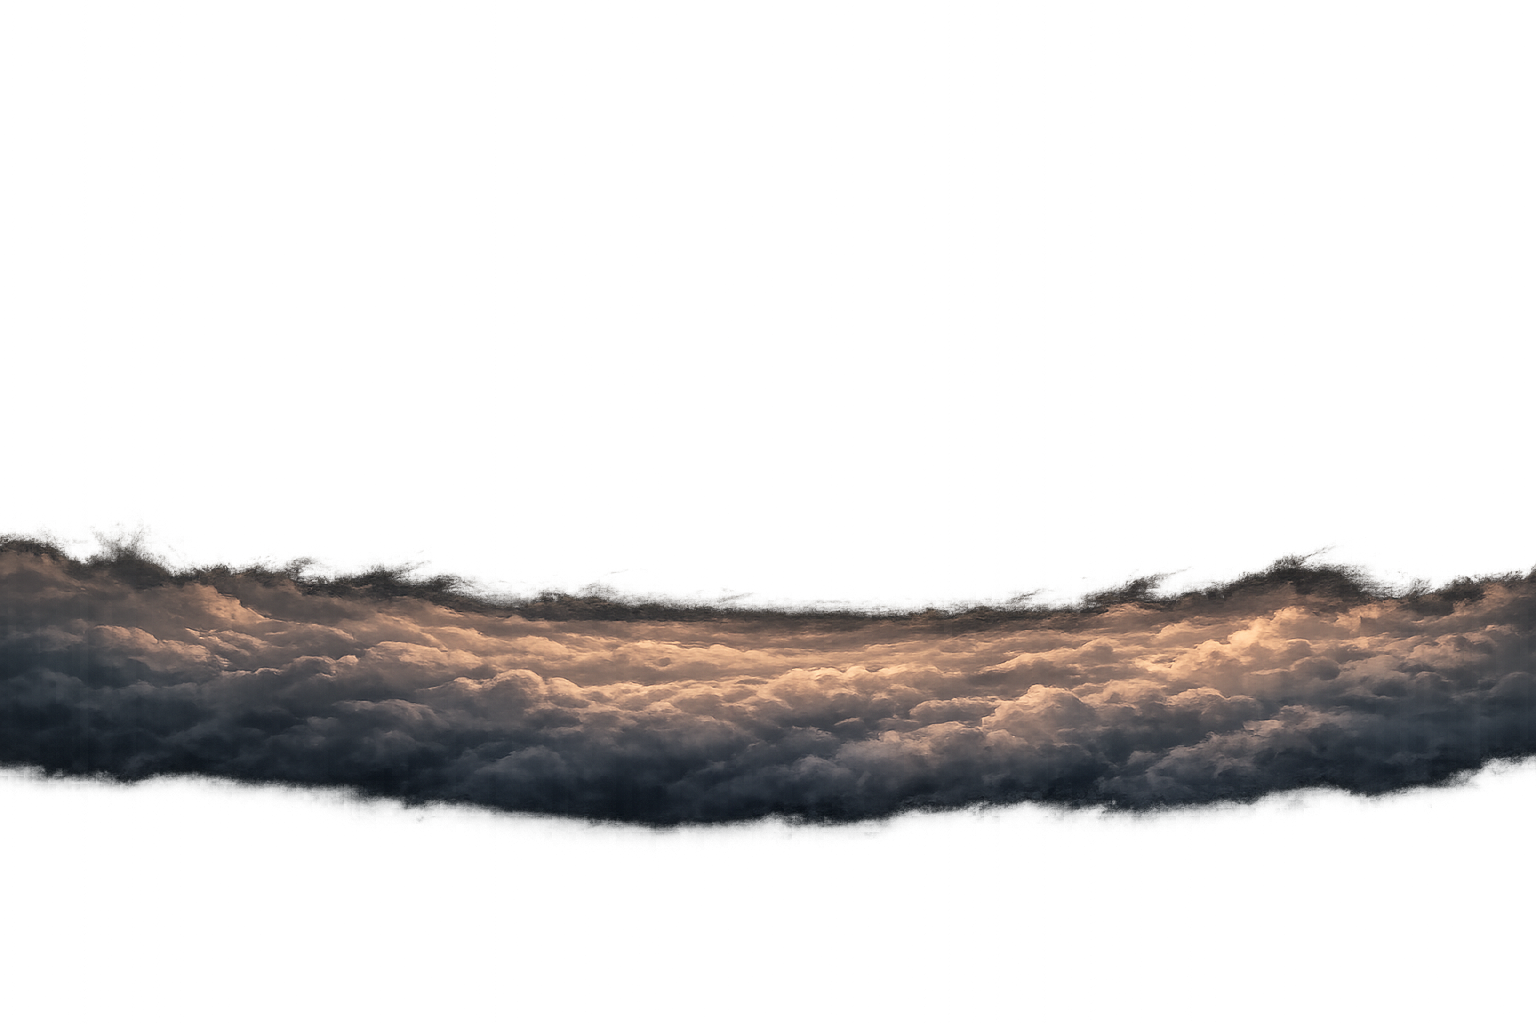
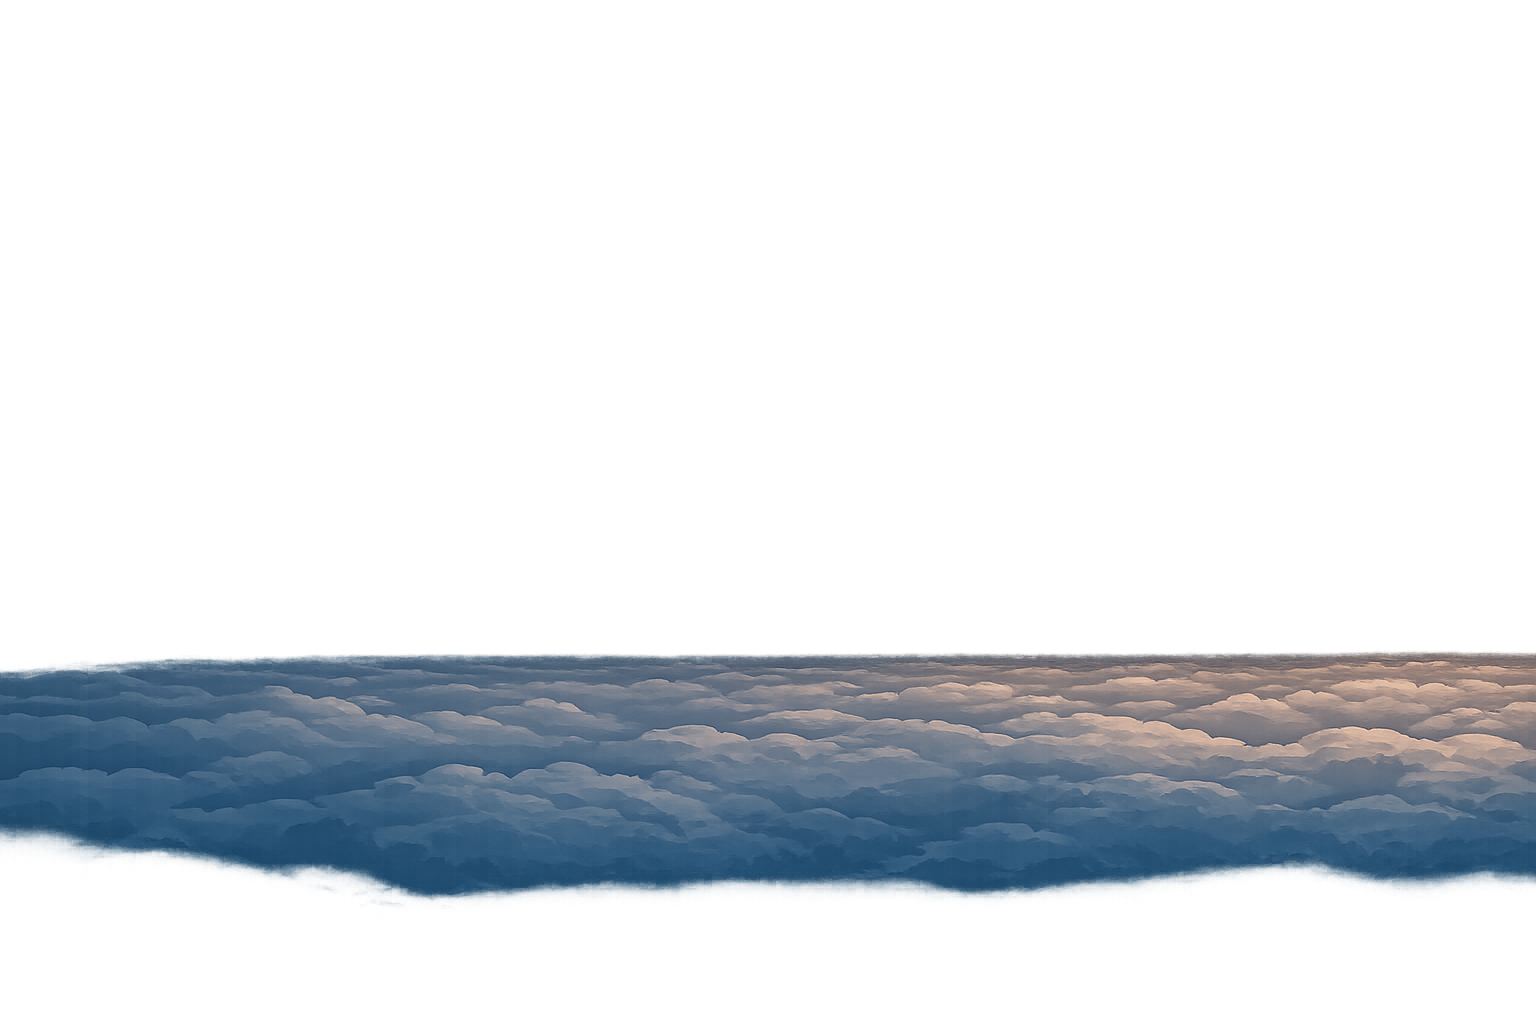
Wire up the redesigned title backdrop
Replaces the mountain vista with the yard-deck set: sky, cloud sea, yard
structure, deck edge. Four layers, all 1536x1024 and composed in one
frame including the opaque sky, so the whole stack draws to one shared
rect and registers by construction.

The distant-yards layer came back empty and is not wired. Max alpha 5 of
255, scattered as noise across the entire frame, 1% of pixels non-zero -
that is compression noise, not art. It is the layer that gives the cloud
sea scale and says the world is inhabited, so it needs regenerating.
TITLE_LAYERS and BootScene both note where it goes.

A dark plate sits immediately behind the deck. The deck art reaches the
last row of its frame but covers only 92% of the width there, and the
opaque sky's warm horizon showed through the corners as a pink band
beneath a structure hanging over two kilometres of nothing. Verified: 0
warm pixels in the bottom six rows, max red 8.

713 tests, build clean.

Changed region(s): [[0.0, 0.5, 1.0, 0.875]]

diff --git a/src/scenes/TitleScene.ts b/src/scenes/TitleScene.ts
@@ -10,12 +10,9 @@ import { music } from '../audio/Music';
 /**
  * The backdrop stack, furthest first, with an optional grading tint.
  *
- * **Aerial perspective, applied as grading rather than asked for as art.** The
- * delivered layers are painted at a uniform level of finish, so the near rock
- * arrives as fully rendered stone competing with everything in front of it. The
- * brief asked the foreground for "a shape, not a subject"; darkening it toward
- * silhouette is how that gets honoured without regenerating anything. Distance
- * eats contrast, and the nearest thing is the one that should be a shadow.
+ * All five layers are composed in one 1536x1024 frame, **including the opaque
+ * sky**, so the whole set is drawn to one shared rect and registers by
+ * construction rather than by five hand-tuned offsets.
  *
  * **Tint only — do not reach for `preFX` here.** A colour matrix and a small
  * blur read better on paper and cost a visible defect: once an object is put on
@@ -23,13 +20,17 @@ import { music } from '../audio/Music';
  * and the extra pass misaligns these `setDisplaySize`-scaled layers just enough
  * to expose a band of the opaque sky along the bottom of the screen. Tint is a
  * vertex multiply with no render target and no such trap.
+ *
+ * **`title_yards` is missing.** The distant-yard layer came back empty — max
+ * alpha 5 of 255, scattered as noise over the whole frame — and it is the layer
+ * that gives the cloud sea scale and says the world is inhabited. It belongs
+ * between the sea and the structure when it exists; `BootScene` gates it.
  */
 const TITLE_LAYERS: readonly (readonly [string, number?])[] = [
-  ['title_haze'],
-  ['title_peaks'],
+  ['title_sky'],
   ['title_sea'],
-  ['title_cliff_mid', 0x737d90],
-  ['title_cliff_fore', 0x3a4252],
+  ['title_structure'],
+  ['title_deck'],
 ];
 
 /**
@@ -70,22 +71,27 @@ export class TitleScene extends Phaser.Scene {
 
     // ---- background: the title's own vista --------------------------------
     //
-    // Was CATHEDRAL YARD's arena layers, tinted and offset to find an empty
-    // corner to put a logo on. That spent the game's only stage before the
-    // player had seen it, and a dockyard interior is a cramped first impression
-    // of a game about flight. This is a mountain summit above the cloud sea.
+    // The open edge of a yard's deck, above the cloud sea at dawn. It borrowed
+    // CATHEDRAL YARD's arena layers first, which spent the game's only stage
+    // before the player had seen it; then a mountain summit, which was a nature
+    // scene fronting a game with no nature in it.
     //
-    // **The five transparent layers were composed in one 1536x1024 frame**, so
-    // they are drawn to a single shared rect and line up by construction rather
-    // than by five hand-tuned offsets. The sky is 16:9 and covers exactly.
-    const sky = this.add.image(0, 0, 'title_sky').setOrigin(0, 0);
-    sky.setDisplaySize(VIEW_W, VIEW_W * (941 / 1672));
-
-    // 3:2 art on a 16:9 screen: filling the width overflows the height by 100px.
-    // Anchored to the bottom, because that is where the rock is and the surplus
-    // is empty sky the opaque layer already covers.
+    // 3:2 art on a 16:9 screen overflows the height by 100px, taken off the top,
+    // which is empty sky the opaque layer covers anyway. See `TITLE_LAYERS`.
     const layerH = VIEW_W * (1024 / 1536);
     for (const [key, tint] of TITLE_LAYERS) {
+      // **The deck does not quite reach the corners.** Its art runs to the last
+      // row of the frame but covers only 92 % of the width there, and what shows
+      // through the remaining 8 % is the opaque sky's warm horizon — a pink band
+      // along the bottom of the screen, under a structure that should be
+      // hanging over two kilometres of nothing. A dark plate immediately behind
+      // the deck fills it with the void that belongs there. Measured, not
+      // guessed: the gap is the corners, so the plate only has to be a strip.
+      if (key === 'title_deck') {
+        this.add
+          .rectangle(0, VIEW_H - 74, VIEW_W, 74, 0x080b12)
+          .setOrigin(0, 0);
+      }
       const img = this.add.image(0, VIEW_H - layerH, key).setOrigin(0, 0);
       img.setDisplaySize(VIEW_W, layerH);
       if (tint) img.setTint(tint);

diff --git a/src/scenes/BootScene.ts b/src/scenes/BootScene.ts
@@ -132,7 +132,9 @@ export class BootScene extends Phaser.Scene {
     // Brief: `docs/TITLE_STAGE_ART_BRIEF.md`.
     const TITLE_STAGE_ART = true;
     if (TITLE_STAGE_ART) {
-      for (const l of ['sky', 'haze', 'peaks', 'sea', 'cliff_mid', 'cliff_fore']) {
+      // `yards` is absent on purpose — see TitleScene's TITLE_LAYERS. Add it
+      // here and to that list in the same commit as the file, never before.
+      for (const l of ['sky', 'sea', 'structure', 'deck']) {
         this.load.image(`title_${l}`, `ui/title_${l}.png`);
       }
     }
